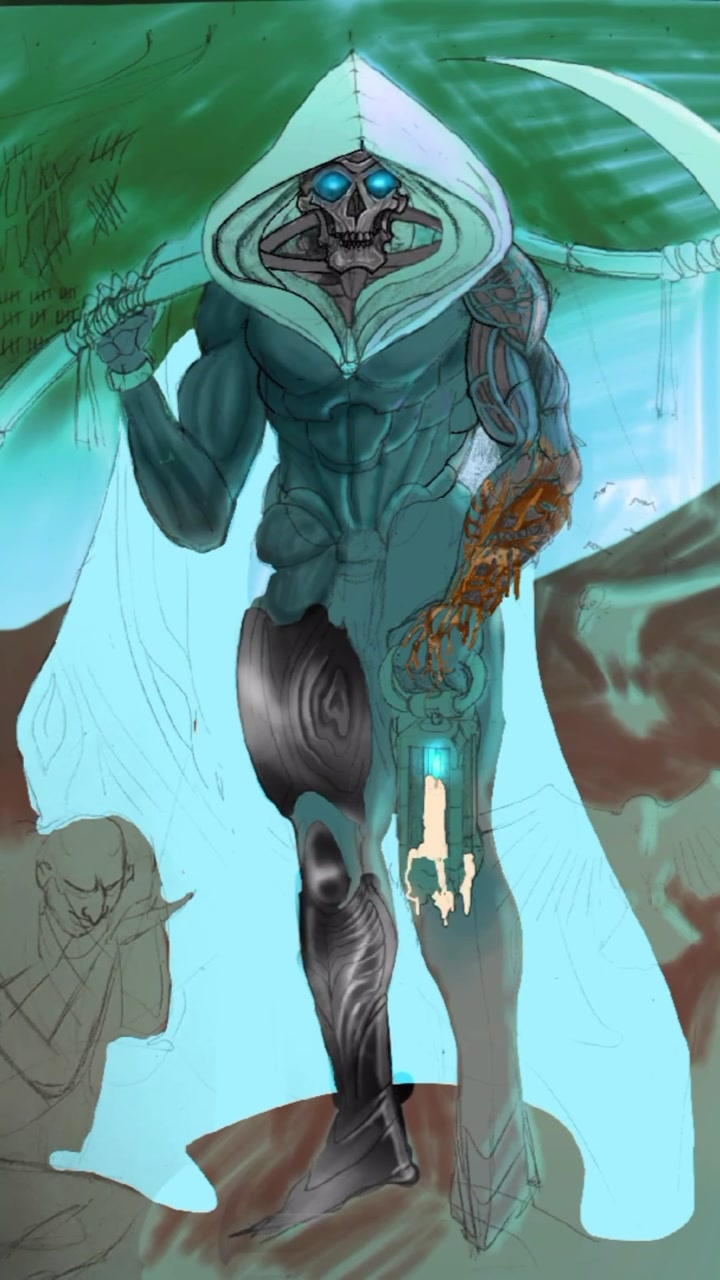
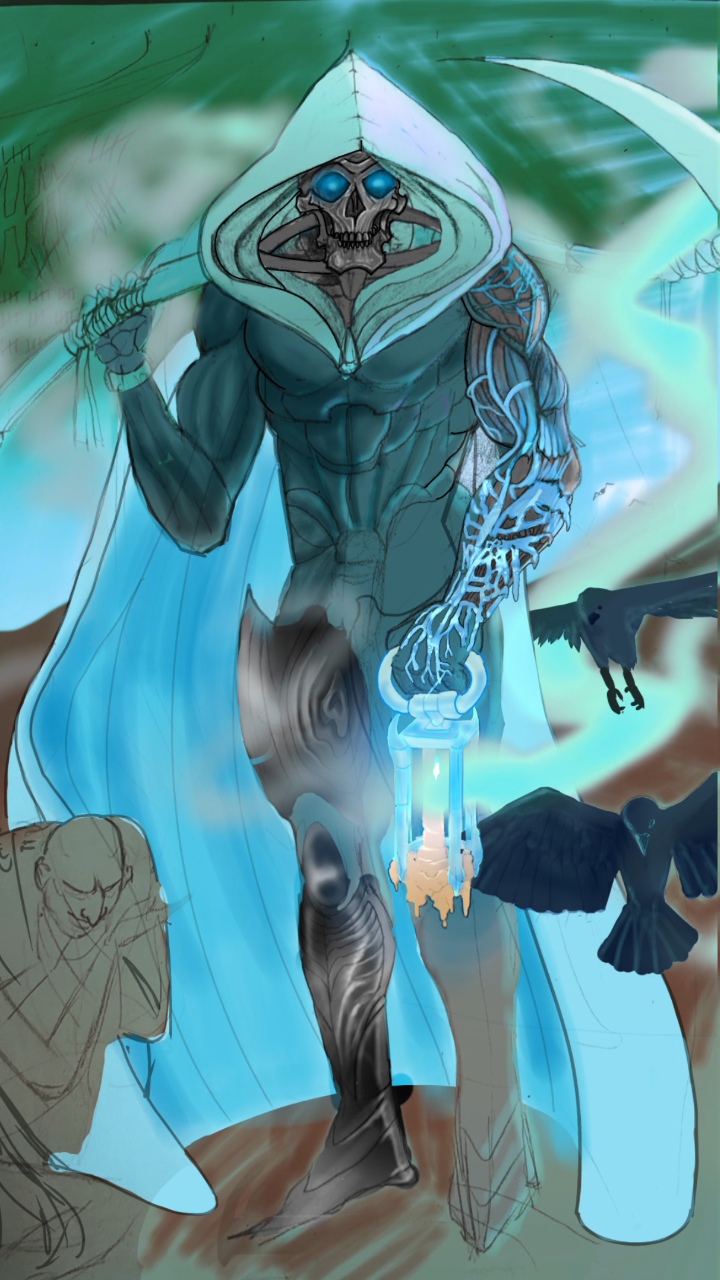
Update Bright Reaper poster and refresh browser cache

diff --git a/index.html b/index.html
@@ -698,7 +698,7 @@
             </div>
             <div class="portfolio-video">
                 <h3 id="video-BrightReaper">BRIGHT REAPER</h3>
-                <video poster="video-posters/BrightReaper.jpg" controls playsinline preload="none" aria-labelledby="video-BrightReaper">
+                <video poster="video-posters/BrightReaper.jpg?v=11b9350c1c9a" controls playsinline preload="none" aria-labelledby="video-BrightReaper">
                     <source src="web-videos/BrightReaper.mp4" type="video/mp4">
                     Your browser does not support embedded video. <a href="web-videos/BrightReaper.mp4">Download this portfolio video</a>.
                 </video>
